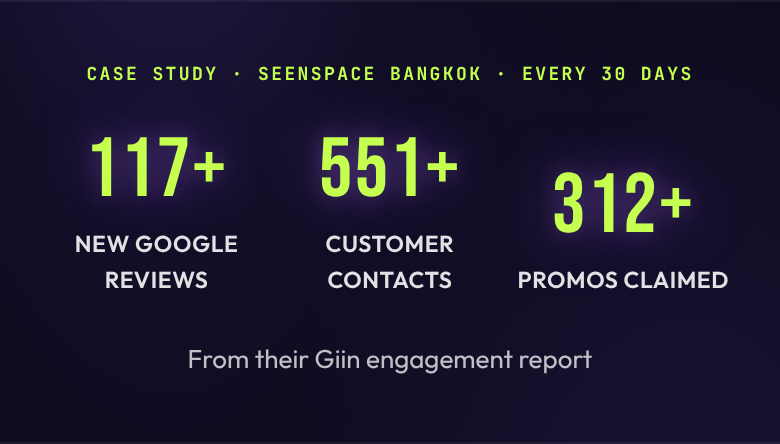
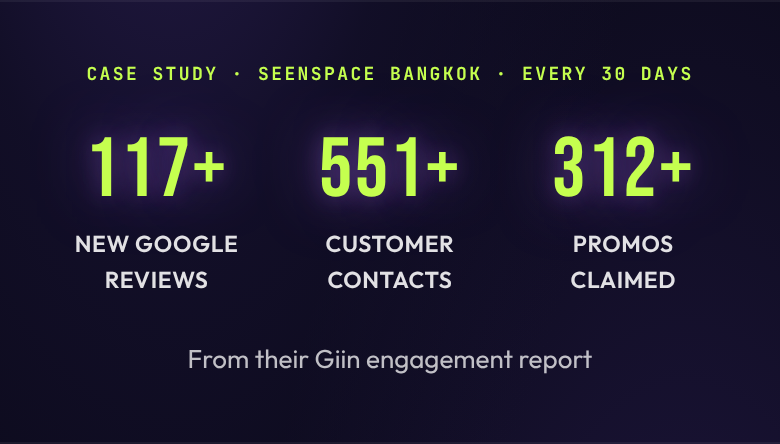
case study: break "Promos claimed" to two lines on mobile for equal height
On phone widths the other two stat labels wrap to two lines while
"Promos claimed" stayed on one, making the stat heights uneven. Add a
mobile-only line break (br.lbl-brk-mobile, shown at <=600px) so it reads
PROMOS / CLAIMED like CUSTOMER / CONTACTS; desktop stays one line.
styles.css bumped to v=61.

Claude-Session: https://claude.ai/code/session_01Jw98HHUcm9d6pdeFq6sxgq

Changed region(s): [[0.6462, 0.2928, 0.9538, 0.6734]]

diff --git a/styles.css b/styles.css
@@ -367,12 +367,14 @@ body.home { font-family: var(--font-body); color: var(--w85); background: var(--
 .livestats-num { font-family: var(--font-reward); font-weight: 400; font-size: 68px; letter-spacing: 1px; color: var(--lime); line-height: 1; text-shadow: 0 0 30px var(--purple-glow), 0 0 12px rgba(155,100,220,0.4); margin-bottom: 6px; }
 .livestats-lbl { font-family: var(--font-body); font-size: 14.5px; font-weight: 600; color: var(--w85); letter-spacing: 0.3px; }
 .livestats-src { font-family: var(--font-body); font-size: 13px; color: var(--w70); text-align: center; margin-top: 20px; }
+.lbl-brk-mobile { display: none; }
 @media (max-width: 600px) {
   .livestats { padding: 30px 0 32px; }
   .livestats-eyebrow { font-size: 9px; letter-spacing: 1.2px; margin-bottom: 20px; padding: 0 8px; }
   .livestats-row { gap: 8px; }
   .livestats-num { font-size: 42px; }
   .livestats-lbl { font-size: 11.5px; }
+  .lbl-brk-mobile { display: inline; }
 }
 @media (max-width: 380px) {
   .livestats-num { font-size: 36px; }

diff --git a/index.html b/index.html
@@ -60,7 +60,7 @@
 <link rel="preconnect" href="https://fonts.googleapis.com">
 <link rel="preconnect" href="https://fonts.gstatic.com" crossorigin>
 <link href="https://fonts.googleapis.com/css2?family=Syne:wght@700;800&family=Sora:wght@500;600;700;800&family=Outfit:wght@400;500;600;700&family=JetBrains+Mono:wght@500;700&family=Bebas+Neue&display=swap" rel="stylesheet">
-<link rel="stylesheet" href="styles.css?v=60">
+<link rel="stylesheet" href="styles.css?v=61">
 <link href="https://assets.calendly.com/assets/external/widget.css" rel="stylesheet">
 </head>
 <body class="home">
@@ -163,7 +163,7 @@
       </div>
       <div class="livestats-stat">
         <div class="livestats-num">312+</div>
-        <div class="livestats-lbl">PROMOS CLAIMED</div>
+        <div class="livestats-lbl">PROMOS <br class="lbl-brk-mobile">CLAIMED</div>
       </div>
     </div>
     <div class="livestats-src">From their Giin engagement report</div>
